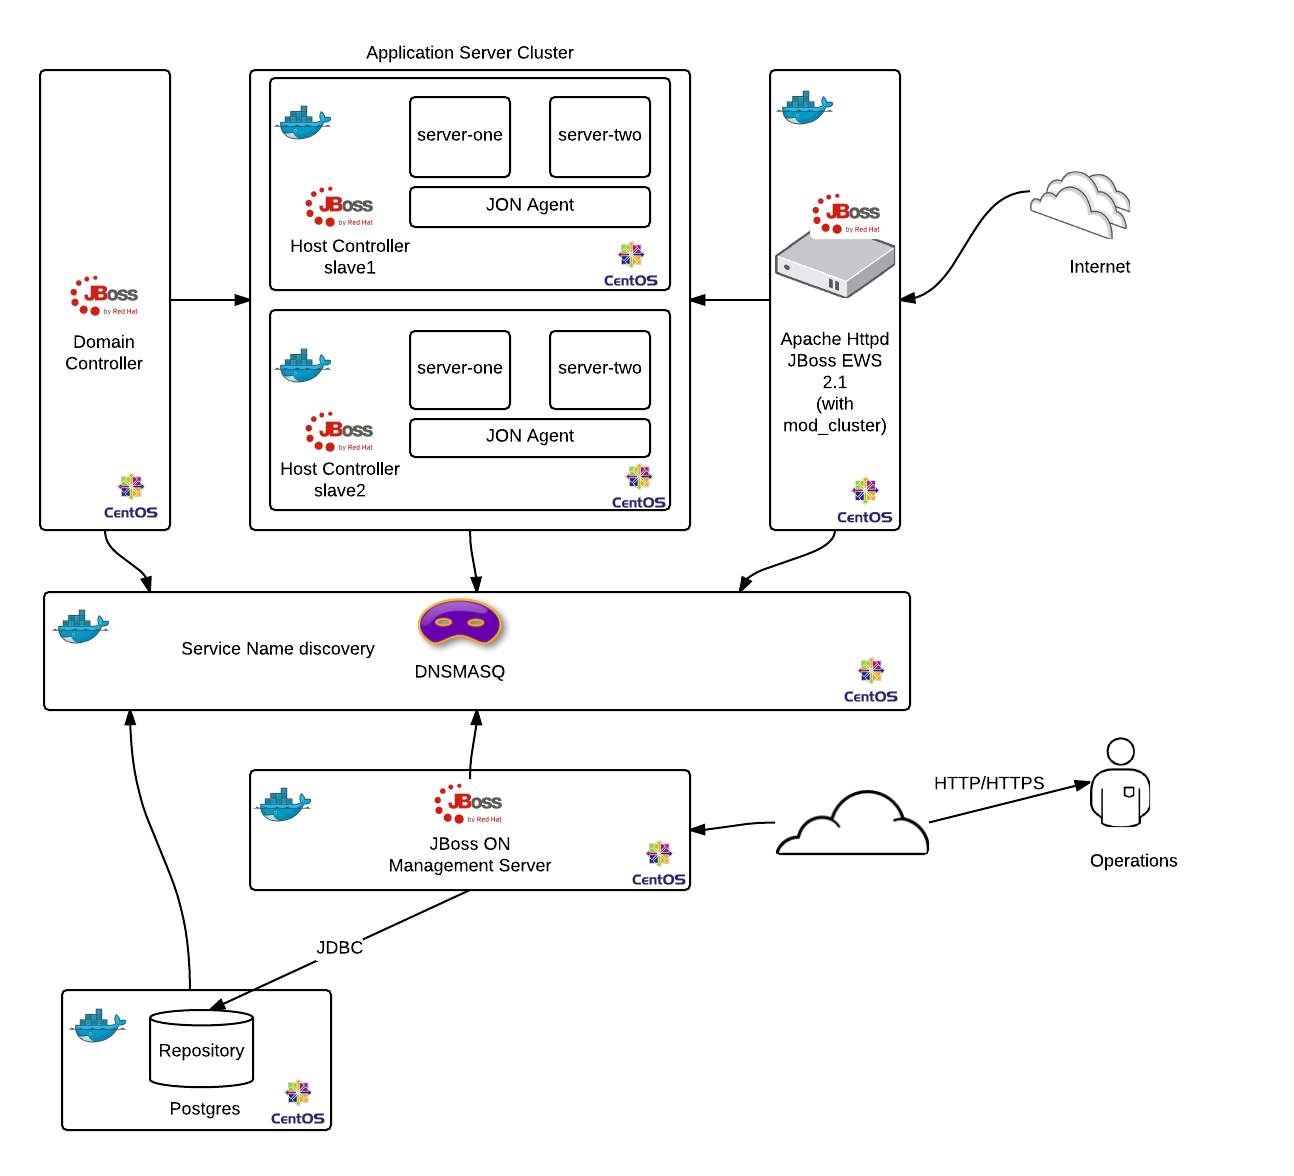
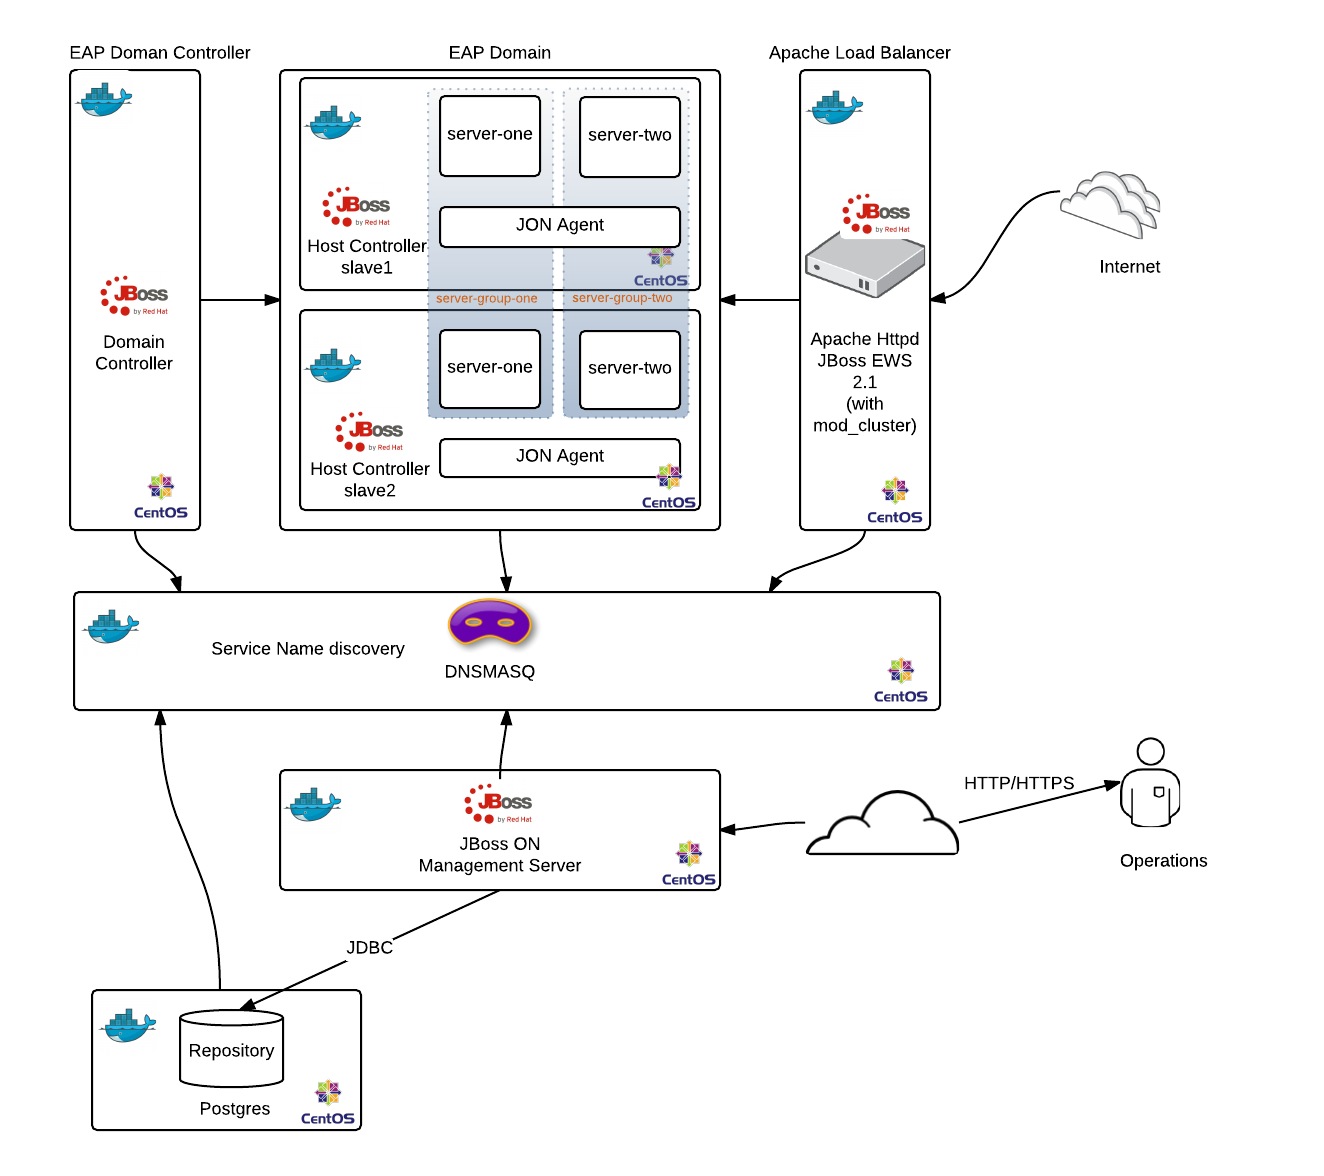
documenting...

diff --git a/README.md b/README.md
@@ -1,15 +1,78 @@
 # JBoss EAP Managed on Docker
 
-Provides a complete JBoss EAP 6 environment managed by JBoss Operations Network (JON/RHQ) and load balanced/proxied by Apache Web Server (JBoss EWS with mod_cluster)
+Provides a complete **JBoss EAP 6** environment managed by **JBoss Operations Network** (JON/RHQ) and load balanced/proxied by **Apache Httpd Server** (JBoss EWS with `mod_cluster`)
 
-The diagram below shows the complete enviorenment.
+The diagram below shows the complete environment.
 ![The infrastructure Big picture](static/img/env_diagram.png "The Big picture")
 
-First,
+**Wait!** With `docker` and `docker-compose` you can setup all this environment in your Laptop/Workstation **_in a few minutes and in an automated way_**. Yeah, thats the magic of Containers.
 
-Access the https://access.redhat.com and download the following installers:
-NOTE: download the latest releases!
+This setup gives you a whole JBoss EAP "infrastructure playground" to test, demo, workshop whatever you need to do with JBoss EAP. You have:
 
+* **Apache Httpd Server** (JBoss EWS)
+ * front-end for proxy/load balancer functions
+* **JBoss EAP** (Domain Mode)
+ * with two nodes (Host Slaves)
+ * and two server groups
+* **JBoss Operation Network** (JON)
+ * to manage and monitor all the environment
+
+So, you can do many things:
+* deploy your JavaEE applications
+* provision new server groups
+ * provision new server instances
+   * with mod_cluster you can see they automatically appear on `mod_cluster_manager` console!
+* test clustering and fail over capabilities using the JBoss `full-ha` profile
+* show and take advantage of `mod_cluster` capabilities
+ * automatic backend node discovery
+ * automatic web context mapping (during deploy/undeploy apps in a JBoss node)
+ * rich and intelligent load balancing strategies
+* monitor and manage all the components present in the setup:
+ * app deployment
+ * resource configuration
+   * JBoss EAP Host Controllers
+   * Apache virtual hosts
+   * Postgres DB
+ * resource provisioning (Bundles)
+ * Alert and notification
+ * Events
+   * resource availability
+   * server logs
+
+and many other things JBoss EAP can offer...
+
+---
+
+Well lest prepare your host to build and setup all this.
+
+First you have to to download or clone this repository into a work directory in you host.
+ * if you have `git` installed in your system:
+
+```git clone git@github.com:rafaeltuelho/jboss-eap-managed-on-docker.git```
+
+ * or just download the repo's zip file: Click on `Download ZIP` button located in right side of this page.
+
+After that you nedd the product's binaries packages!
+
+Access the https://access.redhat.com with your Red Hat account and download the following installers:
+
+> NOTE: download the latest releases!
+
+See some screenshots where you can find each software package on Red Hat Customer Portal.
+
+![JBoss EAP installer](static/img/redhat-csp-jboss-1.png "JBoss EAP")
+--
+![JBoss EAP Natives](static/img/redhat-csp-jboss-native-2.png "JBoss EAP Natives")
+--
+![JBoss EAP Update Patch](static/img/redhat-csp-eap-patchs.png "JBoss EAP Patches")
+--
+![JON](static/img/redhat-csp-jon-4.png "JON")
+--
+![JON Update Patch](static/img/redhat-csp-jon-patchs.png "JON Update")
+--
+![JON EAP Plugin](static/img/redhat-csp-jon-for-eap.png "EAP Plugin")
+
+At the time I was writting this guide the following versions was available:
 ```
 jboss-eap-6.4.0.zip
 jon-server-3.3.0.GA.zip
@@ -20,23 +83,143 @@ jboss-eap-6.4.2-patch.zip
 jboss-eap-native-webserver-connectors-6.4.0-RHEL7-x86_64.zip
 ```
 
-after download put them all inside 'software/' directory.
+put them all inside the `software/` directory.
 
-excute the `./prepare.sh script`
+Now execute the `./prepare.sh` script.
 
-and them...
+It will check some prereqs in your system and build all the Docker Images needed by `docker-compose` to startup the Containers.
+
+> NOTE: the build step takes some time to finish. Be patient and wait...
+
+> During the build process the scripts will apply any existing update/patch (if exists) to the products installation.
+
+when the prepare step is finished you can verify the docker images in your local repository. Some thing like that:
+
+```
+> docker images
+REPOSITORY             TAG                 IMAGE ID            CREATED             VIRTUAL SIZE
+rsoares/eap            latest              bcdd3e032a7e        About an hour ago   1.53 GB
+rsoares/jon-server     latest              e084c057a6cc        3 days ago          2.125 GB
+rsoares/ews            latest              c3fe3359bbea        3 days ago          547.1 MB
+rsoares/jon-postgres   latest              0061bd278821        3 days ago          566 MB
+rsoares/jon-agent      latest              62f750308407        3 days ago          497.2 MB
+rsoares/java-base      latest              f0b4b37fbc5a        3 days ago          459.4 MB
+rsoares/centos7-base   latest              a60bfe564a73        3 days ago          234.5 MB
+rsoares/dnsmasq        latest              5e19b0dd6eb0        3 days ago          189 MB
+centos                 centos7             7322fbe74aa5        7 weeks ago         172.2 MB
+centos                 latest              7322fbe74aa5        7 weeks ago         172.2 MB
+centos/postgresql      latest              abd6fe69720d        9 months ago        327.3 MB
+```
+
+after that, if all worked fine you finally can do
 
 ```
 docker-compose up
 ```
+you should see a lot of output in your console. Docker Compose start the containers in foreground (if you don't specify `-d` option).
 
-NOTE 1: verify if your local system Firewall is UP/Running. If yes stop it or add a new rule to accept conncetions on `docker0` interface and UDP PORT `53` (DNS). Our dnsmasq service binds to `docker0` (usually with `172.17.42.1` addr)
+```
+> docker-compose up
+Creating jbosseapmanagedondocker_dnsmasq_1...
+Creating jbosseapmanagedondocker_eapmaster_1...
+Creating jbosseapmanagedondocker_eapslave1_1...
+Creating jbosseapmanagedondocker_jonpostgres_1...
+Creating jbosseapmanagedondocker_ewshttpd_1...
+Creating jbosseapmanagedondocker_eapslave2_1...
+Creating jbosseapmanagedondocker_jonserver_1...
+Attaching to jbosseapmanagedondocker_dnsmasq_1, jbosseapmanagedondocker_eapmaster_1, jbosseapmanagedondocker_eapslave1_1, jbosseapmanagedondocker_jonpostgres_1, jbosseapmanagedondocker_ewshttpd_1, jbosseapmanagedondocker_eapslave2_1, jbosseapmanagedondocker_jonserver_1
 
-NOTE2: to be able to open the services by name on your local browser add a new entry in the `/etc/resolv.conf` file.
+...
+
+```
+> it may take few minutes to docker-compose create all the containers. Remember the infra diagram! There are many components involved in this setup.
+
+> NOTE: in RHEL like systems (Fedora or Centos) the Local Firewall runs by default. If this is your case, stop it or add a new rule to accept connections on `docker0` interface for UDP PORT `53` (DNS). Our `dnsmasq` service binds to `docker0` (usually with `172.17.42.1` addr).
+
+To be able to access the services by name on your local browser add a new entry in your `/etc/resolv.conf` file (Docker Host).
 
 ```
 sudo vim /etc/resolv.conf
 nameserver 172.17.42.1
 ```
 
-Now you can open the `http://jon-server:7070/` using your browser!
+Now you can access the services by name:
+* JON Server console: `http://jon-server:7070/`
+![JON](static/img/jon-server-inventory-import.png)
+> NOTE: you have to manually import the discovered resource in the first time JON start monitor a given host. Select all the resource in the `Inventory > Discovery Queue` and click the Blue `Import` button.
+
+* JBoss EAP Management Console (Doman COntroller): `http://master:9990/`
+![EAP](static/img/eap-master-dc.png)
+
+* Apache Httpd mod_cluster Manager: `http://apache:6666/mod_cluster_manager`
+
+* Web App through Apache front-end: `http://apache/<webapp context root>`
+![Apache](static/img/apache-mod_cluster_manager.png)
+> NOTE: By default Google Chrome will note open URL with ports above 1024. Use the Firefox in this case.
+
+To access some container shell use the `docker exec` command.
+
+Get the conatiner's name or id you want to access.
+```
+> docker-compose ps
+                Name                                 Command                                 State                                  Ports
+---------------------------------------------------------------------------------------------------------------------------------------------------------
+jbosseapmanagedondocker_dnsmasq_1      /run.sh                                Up                                     53/tcp, 172.17.42.1:53->53/udp
+jbosseapmanagedondocker_eapmaster_1    /run.sh domain --host-conf ...         Up                                     23364/tcp, 4447/tcp, 45688/tcp,
+                                                                                                                     45700/tcp, 54200/tcp, 5455/tcp,
+                                                                                                                     55200/tcp, 7500/tcp, 8080/tcp,
+                                                                                                                     9990/tcp, 9999/tcp
+jbosseapmanagedondocker_eapslave1_1    /run.sh domain --host-conf ...         Up                                     23364/tcp, 4447/tcp, 45688/tcp,
+                                                                                                                     45700/tcp, 54200/tcp, 5455/tcp,
+                                                                                                                     55200/tcp, 7500/tcp, 8080/tcp,
+                                                                                                                     9990/tcp, 9999/tcp
+jbosseapmanagedondocker_eapslave2_1    /run.sh domain --host-conf ...         Up                                     23364/tcp, 4447/tcp, 45688/tcp,
+                                                                                                                     45700/tcp, 54200/tcp, 5455/tcp,
+                                                                                                                     55200/tcp, 7500/tcp, 8080/tcp,
+                                                                                                                     9990/tcp, 9999/tcp
+jbosseapmanagedondocker_ewshttpd_1     /run.sh                                Up                                     6666/tcp, 80/tcp
+jbosseapmanagedondocker_jonpostgres_   /run.sh                                Up                                     16163/tcp, 5432/tcp
+1
+jbosseapmanagedondocker_jonserver_1    /run.sh                                Up                                     7080/tcp
+
+```
+
+whith the container's name or id:
+```
+docker exec -ti jbosseapmanagedondocker_eapmaster_1 /bin/bash
+```
+
+To stop all the environment use:
+```
+docker-compose stop
+```
+
+To cleanup the stopped images to save you disk space:
+```
+docker rm `sudo docker ps -qa --filter 'status=exited'`
+```
+To see how many resources (CPU and RAM) your containers are consuming:
+
+```
+docker stats \
+  jbosseapmanagedondocker_dnsmasq_1 \
+  jbosseapmanagedondocker_jonpostgres_1 \
+  jbosseapmanagedondocker_jonpostgres_1 \
+  jbosseapmanagedondocker_ewshttpd_1 \
+  jbosseapmanagedondocker_eapmaster_1 \
+  jbosseapmanagedondocker_eapslave1_1 \
+  jbosseapmanagedondocker_eapslave2_1
+
+```
+
+You should see something like that:
+```
+CONTAINER                               CPU %               MEM USAGE/LIMIT     MEM %               NET I/O
+jbosseapmanagedondocker_dnsmasq_1       0.00%               1.262 MB/12.11 GB   0.01%               1.046 MB/69.34 kB
+jbosseapmanagedondocker_eapmaster_1     0.21%               448.4 MB/12.11 GB   3.70%               58.44 MB/44.36 MB
+jbosseapmanagedondocker_eapslave1_1     0.87%               1.324 GB/12.11 GB   10.93%              57.46 MB/44.82 MB
+jbosseapmanagedondocker_eapslave2_1     0.66%               1.271 GB/12.11 GB   10.50%              58.52 MB/43.84 MB
+jbosseapmanagedondocker_ewshttpd_1      0.09%               186.6 MB/12.11 GB   1.54%               37.85 MB/22.32 MB
+jbosseapmanagedondocker_jonpostgres_1   0.17%               320.5 MB/12.11 GB   2.65%               100.4 MB/211 MB
+jbosseapmanagedondocker_jonpostgres_1   0.17%               320.5 MB/12.11 GB   2.65%               100.4 MB/211 MB
+```
